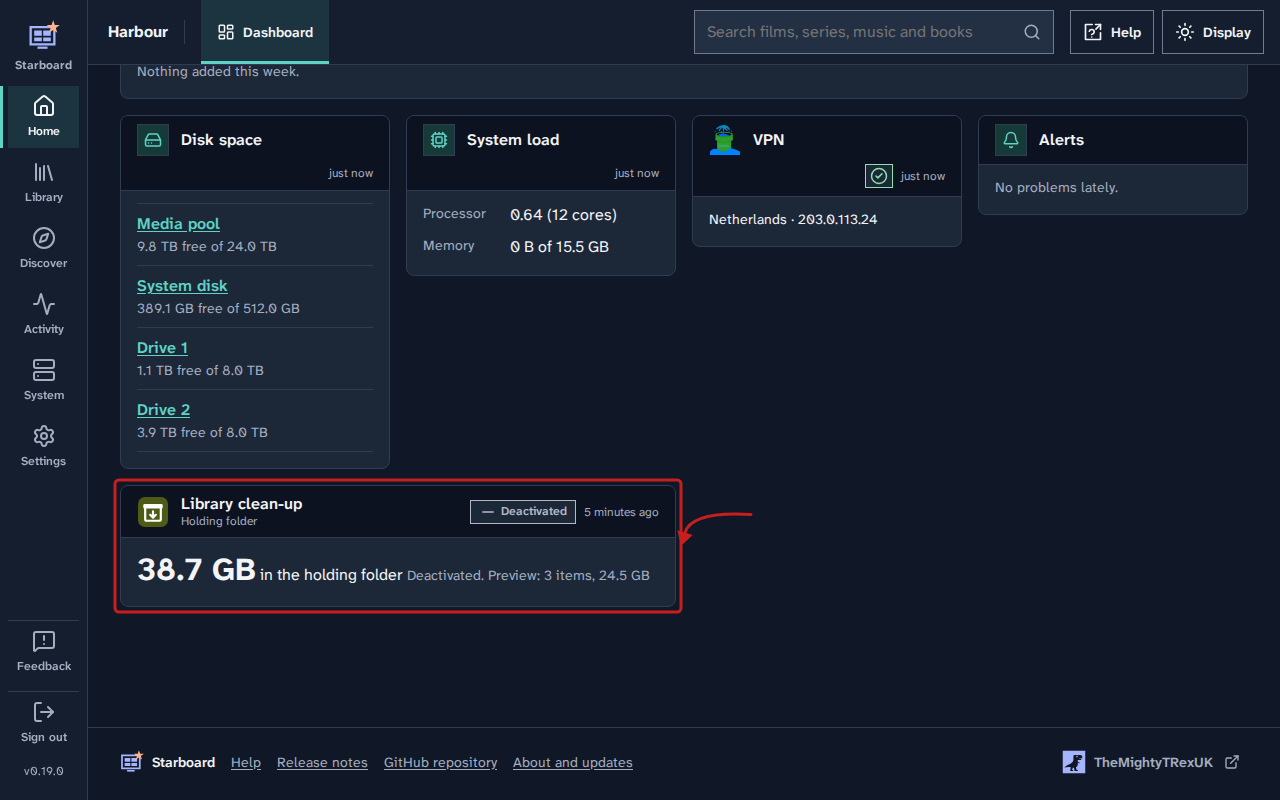
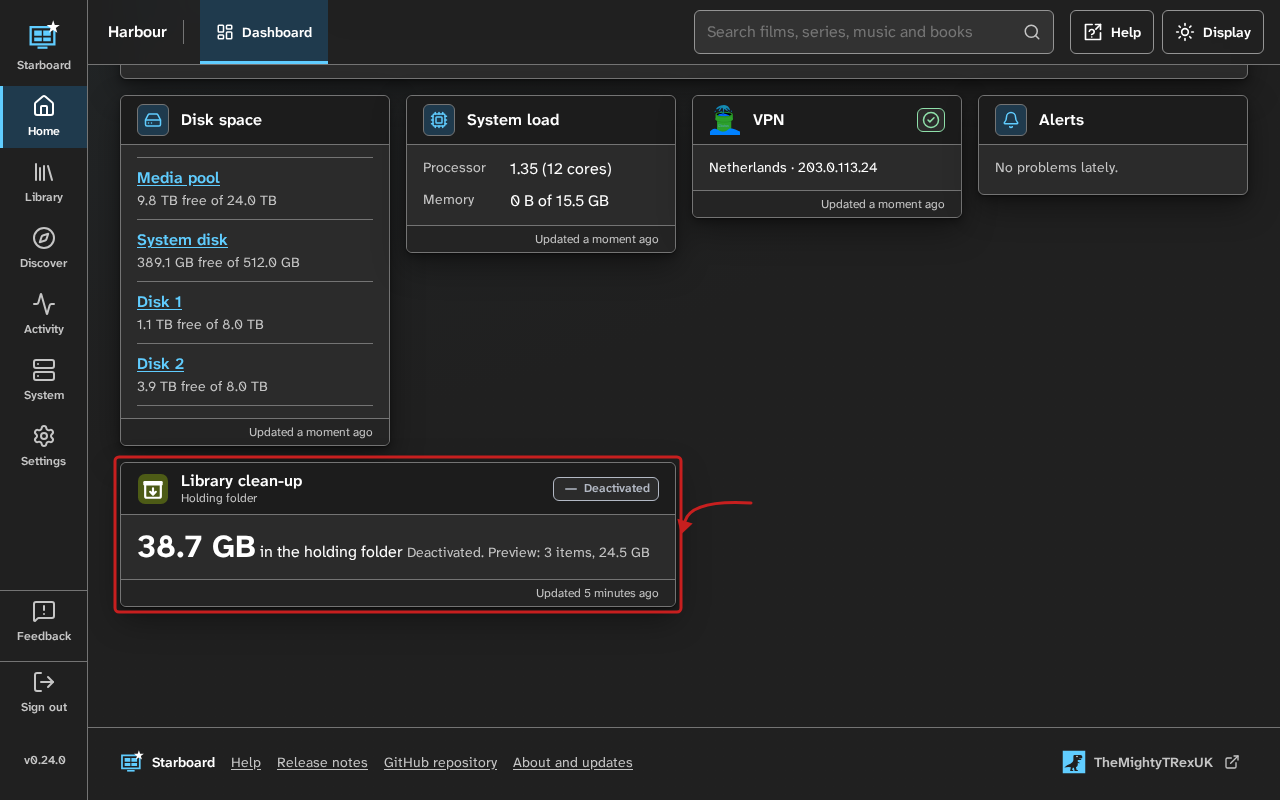
Help pictures in Starboard's new design (DASH-506)
- Library clean-up: all 11 pictures retaken on Starboard main (Mica and the new components). install-4-activate.png
  becomes install-4-active.png: Starboard now activates a plug-in when it is installed, so it shows State, Active.
  settings-1-rules.png now shows the hint as it is ("Check Preview first").
- Philips Hue: the owed install pictures (Catalogue, the install slide-out, the password step) and Add a card with
  Rooms (Philips Hue), placed beside the steps they show.
- tools/help-screenshots.sh takes any plug-in's pictures listed in shots.json (each shot names its plug-in), and the
  dark card picture sets Display's dark theme, since Starboard no longer follows the browser's.

diff --git a/tools/help_screenshots/example_server.py b/tools/help_screenshots/example_server.py
@@ -1,12 +1,14 @@
 #!/usr/bin/env python3
 """Starboard's example server (made-up data, nothing real is read) with this collection's own catalogue.json and
-Library clean-up's real manifest, for the plug-ins help pictures (tools/help-screenshots.sh).
+the plug-ins' real manifests, for the plug-ins help pictures (tools/help-screenshots.sh).
 
-    python3 tools/help_screenshots/example_server.py <starboard checkout> <data folder> <port> [absent]
+    python3 tools/help_screenshots/example_server.py <starboard checkout> <data folder> <port> [absent|present] [plug-in]
 
-With "absent", Library clean-up is not added, so the Catalogue offers it and Install... shows what it may do. Without
-it, Library clean-up is added and active, with made-up Preview, Holding folder, Libraries and card answers.
-Nothing is read, moved or put back: Put back takes the row off the list here. 15 November 2026."""
+The plug-in is library-cleanup unless named, and the Catalogue lists it as published even before it is. With
+"absent", it is not added, so the Catalogue offers it and Install...
+shows what it may do. Otherwise it is added and active. Library clean-up has made-up Preview, Holding folder, Libraries
+and card answers; any other plug-in is only added (enough for Add a card), and its container is never started.
+Nothing is read, moved or put back: Put back takes the row off the list here. 15 and 20 November 2026."""
 import json
 import pathlib
 import sys
@@ -15,13 +17,19 @@ import time
 HERE = pathlib.Path(__file__).resolve().parent.parent.parent
 starboard, data, port = sys.argv[1], sys.argv[2], sys.argv[3]
 absent = len(sys.argv) > 4 and sys.argv[4] == "absent"
+PLUGIN = sys.argv[5] if len(sys.argv) > 5 else "library-cleanup"
 sys.path.insert(0, str(pathlib.Path(starboard) / "tools" / "screenshots"))
 sys.argv = ["example_server.py", data, port]
 import example_server as ex  # noqa: E402  (Starboard's example server: its set-up runs on import, main() below)
 from starboard import plugin_cards, plugin_custom, plugin_logo, plugin_watch, plugins_admin  # noqa: E402
 
 CATALOGUE = json.loads((HERE / "catalogue.json").read_text())
-MANIFEST = json.loads((HERE / "library-cleanup" / "starboard-plugin.json").read_text())
+MANIFEST = json.loads((HERE / PLUGIN / "starboard-plugin.json").read_text())
+# As published: an image pinned by digest. One GitHub has not built yet gets a made-up digest (e…e) here.
+PINNED = json.loads(json.dumps(MANIFEST))
+for _c in PINNED.get("containers", []):
+    if _c.get("image") and "@sha256:" not in _c["image"]:
+        _c["image"] = _c["image"].split(":")[0] + "@sha256:" + "e" * 64
 _real_catalogue, _real_manifest = plugins_admin.fetch_catalogue, plugins_admin.fetch_manifest
 
 
@@ -29,13 +37,14 @@ def catalogue(address, opener=None):
     """The collection's own catalogue, as Starboard reads it from GitHub."""
     if address == plugins_admin.CATALOGUE_URL:
         return {"name": CATALOGUE.get("name") or "Starboard plug-ins",
-                "items": [x for x in map(plugins_admin._clean_entry, CATALOGUE["plugins"]) if x]}
+                "items": [x for x in map(plugins_admin._clean_entry, [{**e, "published": True} if e["id"] == PLUGIN else e
+                                                                      for e in CATALOGUE["plugins"]]) if x]}
     return _real_catalogue(address, opener)
 
 
 def manifest(address, opener=None, sha256=""):
-    if "library-cleanup" in str(address):
-        return json.loads(json.dumps(MANIFEST))
+    if f"/{PLUGIN}/" in str(address):
+        return json.loads(json.dumps(PINNED))
     return _real_manifest(address, opener) if not sha256 else _real_manifest(address, opener, sha256)
 
 
@@ -83,10 +92,14 @@ def screen(key, held, off):
 def cleanup(data_dir):
     if absent:
         return
-    if not any(p["id"] == "library-cleanup" for p in plugins_admin.listing(data_dir)):
-        plugins_admin.install(data_dir, json.loads(json.dumps(MANIFEST)), "/nonexistent-media")
-        plugins_admin.keep_logo(data_dir, "library-cleanup", plugin_logo.clean((HERE / "library-cleanup" / "logo.svg").read_bytes(), "logo.svg"))
-        plugins_admin.set_state(data_dir, "library-cleanup", "enabled")
+    if not any(p["id"] == PLUGIN for p in plugins_admin.listing(data_dir)):
+        plugins_admin.install(data_dir, json.loads(json.dumps(PINNED)), "/nonexistent-media")
+        plugins_admin.keep_logo(data_dir, PLUGIN, plugin_logo.clean((HERE / PLUGIN / "logo.svg").read_bytes(), "logo.svg"))
+        plugins_admin.set_state(data_dir, PLUGIN, "enabled")
+    if PLUGIN != "library-cleanup":
+        real_ask = plugin_watch._ask
+        plugin_watch._ask = lambda pid, main, path: "ok" if pid == PLUGIN else real_ask(pid, main, path)
+        return
     real_call, real_ask, real_answer = plugin_custom.call, plugin_watch._ask, plugin_cards.answer
     held, off = list(HELD), {"children"}
 

diff --git a/help/plugins/philips-hue/install.md b/help/plugins/philips-hue/install.md
@@ -36,8 +36,17 @@ Like every plug-in, it runs read only, as a user that is not root, with no extra
 
 1. Go to **Settings**, then **Plug-ins**, then **Catalogue**.
 2. Under **Home**, find **Philips Hue** and select **Install…**.
+
+   ![The Catalogue under Home, with Install… beside Philips Hue (step 2) outlined](../../images/philips-hue/add-1-catalogue.png)
+
 3. A slide-out opens with what it can read, change and reach. Read it all.
+
+   ![The Install Philips Hue? slide-out, with what it can read and change, and It can reach (step 3) outlined](../../images/philips-hue/add-2-what-it-may-do.png)
+
 4. Enter your Starboard password and select **Install Philips Hue**. To stop, select **Cancel**: nothing is installed.
+
+   ![The foot of the install slide-out, with Your Starboard password filled in and Install Philips Hue (step 4) outlined](../../images/philips-hue/add-3-password.png)
+
 5. Philips Hue's own tab opens under **Settings**, then **Plug-ins**, and Starboard activates it: its **State**, in **General**, says **Active**.
 
 ### Add it by its address

diff --git a/help/plugins/library-cleanup/install.md b/help/plugins/library-cleanup/install.md
@@ -55,7 +55,7 @@ Measured:
 
 5. Library clean-up's own tab opens under **Settings**, then **Plug-ins**, and Starboard activates it: its **State**, in **General**, says **Active**. If it needs settings first, it says what to enter: save them, then select **Activate**.
 
-   ![Library clean-up's own tab on State, with Activate (step 5) outlined](../../images/library-cleanup/install-4-activate.png)
+   ![Library clean-up's own tab, General, with its State, Active, (step 5) outlined](../../images/library-cleanup/install-4-active.png)
 
 6. Check the rules, **Libraries** and **Always keep**. If someone never watches, such as a guest account, add their Jellyfin user name to **People to leave out**. Read [Settings](settings.md).
 7. Open **Preview**. It lists what the rules would move now, and the space each frees. Nothing moves from **Preview**.

diff --git a/help/plugins/philips-hue/dashboard-card.md b/help/plugins/philips-hue/dashboard-card.md
@@ -40,6 +40,8 @@ Plug-in cards cannot hold buttons, so the quick switch is in **Actions** on the 
 2. In **Add a card**, choose **Rooms** or **Lights on**, each with (Philips Hue) after it.
 3. Select **Save**.
 
+![Edit dashboard, with Rooms (Philips Hue) chosen in Add a card (step 2) and Save (step 3) outlined](../../images/philips-hue/dashboard-card-4-add.png)
+
 ## Find out more
 
 - [Use and change the dashboard, in Starboard's help](https://themightytrex.github.io/starboard/help/topics/use-the-dashboard.html)
